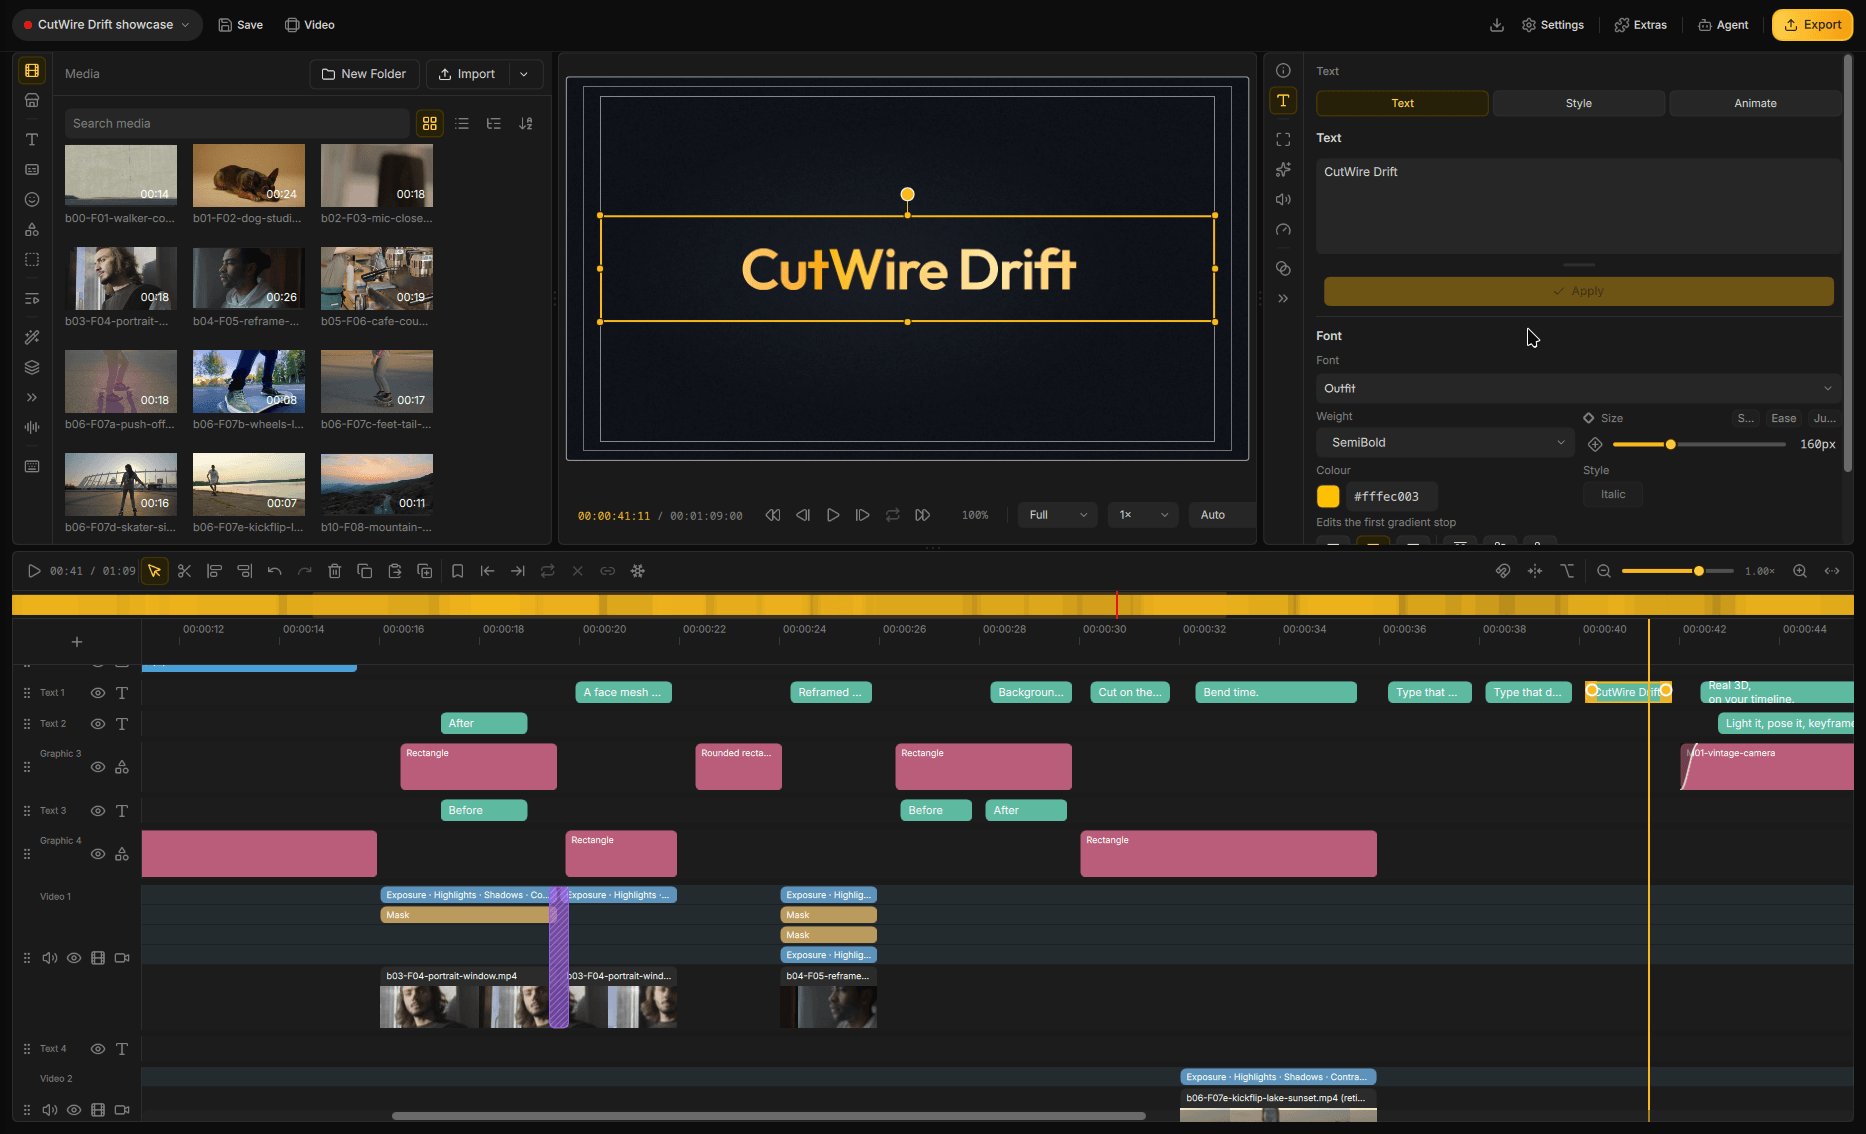
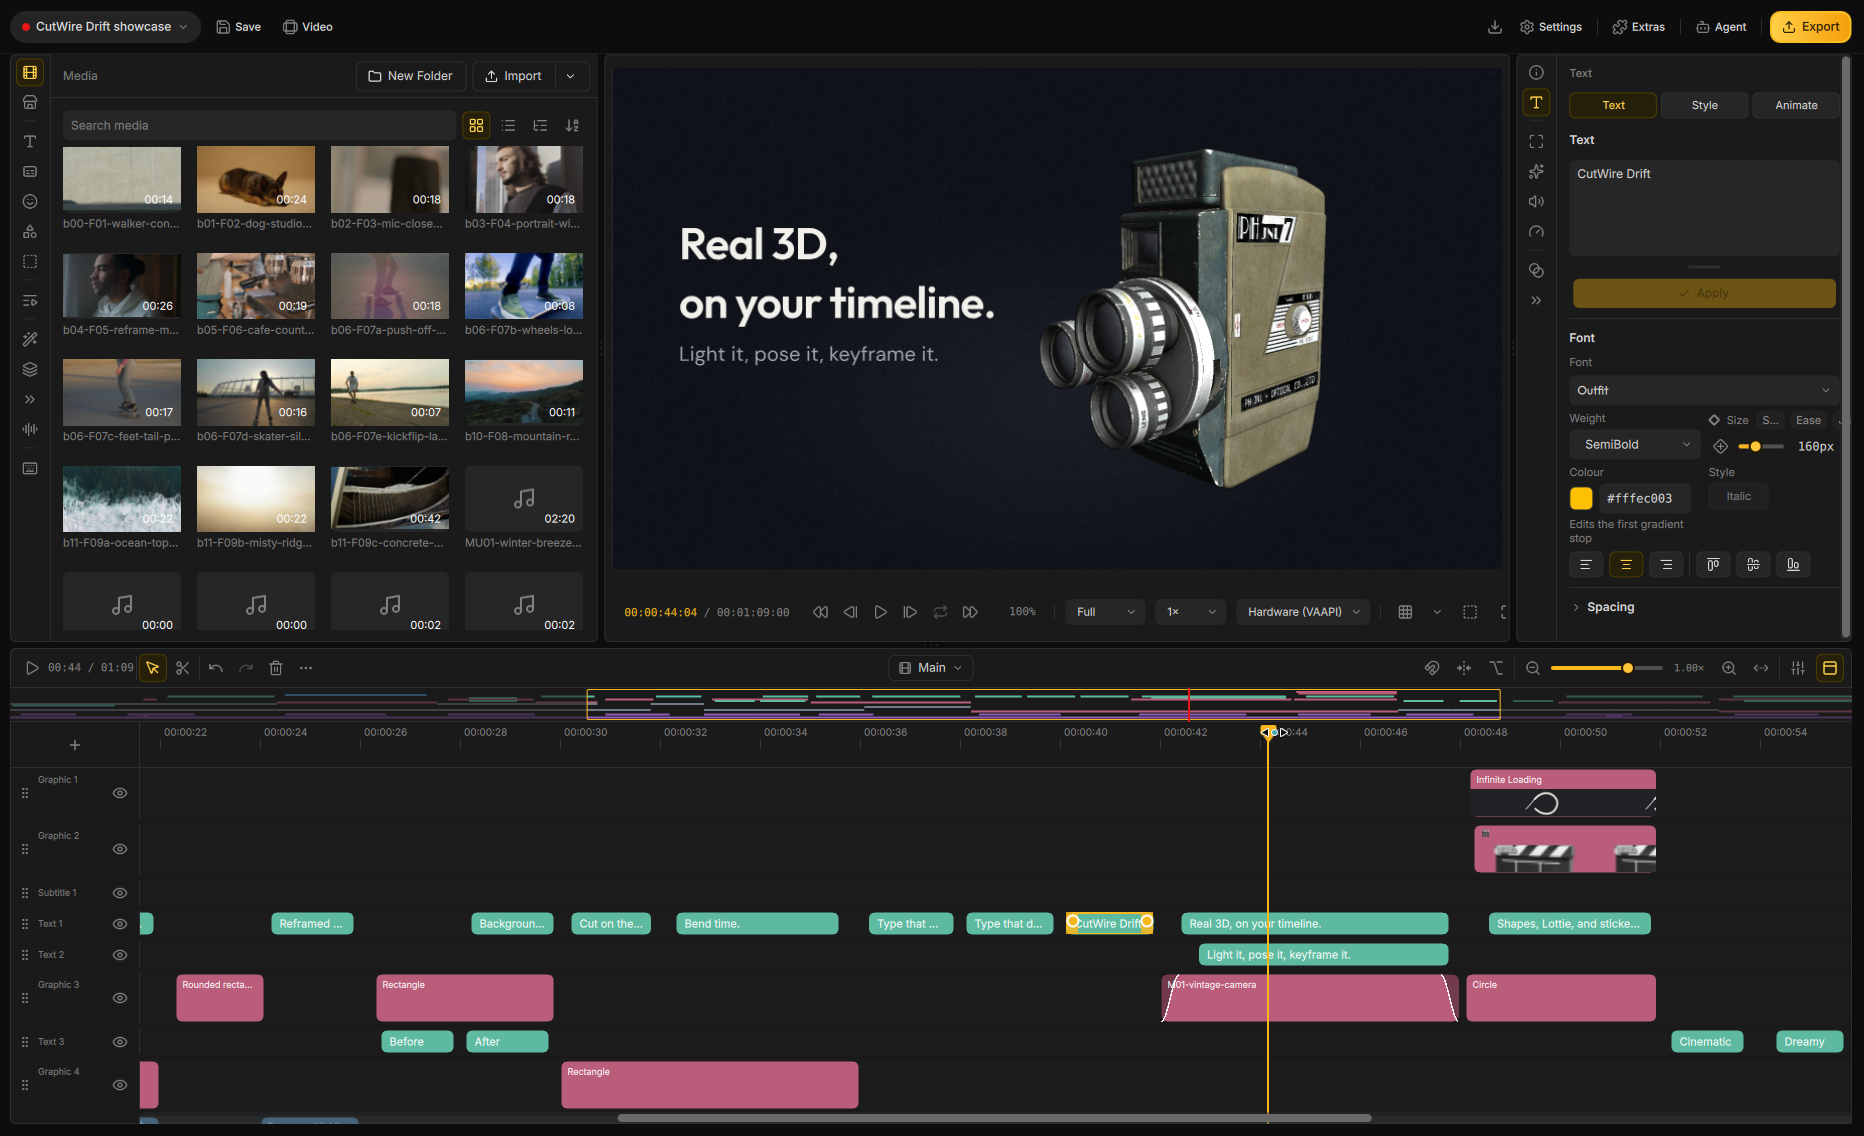
chore: update README.md

diff --git a/README.md b/README.md
@@ -75,141 +75,74 @@ On a phone, grab `Drift-*-arm64-v8a.apk` from the latest release and install it 
 
 See [all releases](https://github.com/CutWire-Studios/Drift/releases) for previous versions and full changelogs.
 
-## Screenshots
+## Screenshot
 
 <p align="center">
-  <img src="docs/screenshots/main-window.png" alt="The Drift editor: media bin on the left, video preview in the centre, clip inspector on the right, timeline below" width="900">
+  <img src="docs/screenshots/main-window.png" alt="The Drift editor: media bin on the left, 3D camera in the preview, text inspector on the right, multi-track timeline below" width="900">
 </p>
 
-<p align="center"><em>Everything in one window — media, preview, inspector, and timeline</em></p>
+## Features
 
-<p align="center">
-  <img src="docs/screenshots/timeline.png" alt="Timeline with four stacked tracks: two image overlays, a title, and a video track showing filmstrip thumbnails" width="900">
-</p>
+**An agent can edit the open project.** Import, cut, grade, and export in the project you have open.
+The same editor can run with no window.
 
-<p align="center"><em>A real multi-track timeline, with overlays, titles, and filmstrip thumbnails</em></p>
+**3D on the timeline.** Tilt clips in space, light them, and park a title behind the subject. Drop
+in a 3D model and it plays in the same cut.
 
-<table>
-  <tr>
-    <td width="50%" align="center">
-      <img src="docs/screenshots/effects-panel.png" alt="Effects browser showing live thumbnail previews of glitch and distortion presets" width="380"><br>
-      <strong>Effects that sell the look</strong><br>
-      Every preset is previewed on a real frame
-    </td>
-    <td width="50%" align="center">
-      <img src="docs/screenshots/transitions-panel.png" alt="Transitions browser with animated previews of crossfade, wipe, and push presets" width="380"><br>
-      <strong>Transitions that feel expensive</strong><br>
-      Drop one where two clips overlap
-    </td>
-  </tr>
-  <tr>
-    <td width="50%" align="center">
-      <img src="docs/screenshots/stickers-panel.png" alt="Sticker browser with emoji grouped into categories" width="380"><br>
-      <strong>Stickers and emoji on demand</strong><br>
-      Search, drag, and drop them onto the canvas
-    </td>
-    <td width="50%" align="center">
-      <img src="docs/screenshots/text-styles.png" alt="Text style presets including neon, karaoke pop, word background, and handwritten" width="380"><br>
-      <strong>Titles that actually get watched</strong><br>
-      Neon, karaoke, highlights, and punchy word styles
-    </td>
-  </tr>
-  <tr>
-    <td width="50%" align="center">
-      <img src="docs/screenshots/templates-panel.png" alt="Template browser showing multi-effect looks such as Beat Drop and Glitch Cut" width="380"><br>
-      <strong>Look templates in one click</strong><br>
-      Music-synced stacks like Beat Drop and Glitch Cut
-    </td>
-    <td width="50%" align="center">
-      <img src="docs/screenshots/audio-effects.png" alt="Audio effect browser with EQ, compressor, limiter, noise gate, de-esser, and voice leveler" width="380"><br>
-      <strong>Audio that sounds intentional</strong><br>
-      EQ, compressor, gate, de-esser, and voice tools
-    </td>
-  </tr>
-  <tr>
-    <td width="50%" align="center">
-      <img src="docs/screenshots/speed-fade.png" alt="Speed and fade inspector with speed presets, reverse, and fade in/out sliders" width="380"><br>
-      <strong>Speed, reverse, and fades</strong><br>
-      Slow-mo, ramps, reverse, and clean in/out
-    </td>
-    <td width="50%" align="center">
-      <img src="docs/screenshots/subtitle-editor.png" alt="Subtitle editor listing timed caption lines, with the line at the playhead highlighted" width="380"><br>
-      <strong>Captions from the speech itself</strong><br>
-      Generate them, then edit every line
-    </td>
-  </tr>
-  <tr>
-    <td width="50%" align="center">
-      <img src="docs/screenshots/subject-cutout.png" alt="Subject cutout dialog with a click marker on the person and the isolated subject highlighted" width="380"><br>
-      <strong>Click the subject. Keep only that.</strong><br>
-      Isolate a person or object onto its own clip
-    </td>
-    <td width="50%" align="center">
-      <img src="docs/screenshots/export-dialog.png" alt="Export dialog with downscale presets and advanced encoder settings" width="420"><br>
-      <strong>Export that matches the preview</strong><br>
-      Simple presets up front, extra control when you want it
-    </td>
-  </tr>
-</table>
+**Lottie animations.** Motion graphics and vector art stay sharp at any size. Recolour or reword
+them in place.
 
-## Features that actually ship in the edit
+**Advanced keyframing.** Animate position, scale, rotation, opacity, and effect parameters over
+time. Draw the curve yourself.
 
-**A timeline that behaves like a real editor.** Trim, split, snap, ripple, mute or hide tracks, and
-undo anything. Stack overlays, titles, and B-roll instead of fighting a one-track toy.
+**150+ transitions and 40+ effects.** Every look previews on your footage. One click can drop a
+whole stack — Beat Drop, Glitch Cut, Neon Cutout. Trails of earlier frames, and grades that stick
+to one clip.
 
-**Looks in seconds, not hours.** GPU effects, stylish transitions, and reusable look templates — so
-a clip can go from raw footage to a finished vibe without opening another app.
+**On this machine.** Click a subject and lift it off the shot. Add depth of field and lights that
+belong to the clip. Automatic captions, video upscale, and live face retouch — all on your
+computer.
 
-**Text, stickers, emoji, and shapes on the canvas.** Neon titles, karaoke-style captions, reaction
-stickers, and callouts stay in the same editor as the cut.
+**Edit the words.** Speech becomes text on the clip. Cut phrases, drop fillers, strip silence, pick
+the best takes, label speakers, and build captions from those times.
 
-**Auto captions you can actually fix.** Speech becomes timed subtitle lines. Edit the wording, tweak
-the timing, and export with captions that match how people watch on mute.
+**Titles with a real look.** Thirty-three packs — karaoke, Hormozi-style, neon, chrome, holographic,
+handwritten. Copy one style onto every subtitle on the track.
 
-**Cutouts, masks, and green screen.** Click a subject and lift it onto its own clip. Mask parts of a
-shot, or key out a green screen when you need a cleaner composite.
+**Move a whole stack at once.** One layer can drag, scale, rotate, tilt, and fade everything under
+it. Nest layers, or open a composite when the stack needs its own timeline.
 
-**Motion that hits the beat.** Speed ramps, reverse, fades, and edits that snap to the music — the
-kind of pacing that makes a clip feel designed, not dumped.
+**Cut to the music.** The timeline snaps to the beat. Clips split and land on the bar. Music ducks
+under speech and comes back to its own level. Reframe a landscape take into a vertical video that
+follows the face.
 
-**Audio tools that clean up the mix.** Volume, fades, EQ, compression, noise cleanup, and voice
-effects, so narration and music sit together instead of fighting.
+**A timeline that behaves.** Multi-track filmstrips, ripple, snap, masks, freeze frame, bookmarks,
+a mixer. Split a clip and the grade stays. A crash leaves the last save intact.
 
-**Multicam when one camera is not enough.** Watch every angle at once, punch between cameras, and
-save the take as a clean cut — without rebuilding the timeline by hand.
+**Audio that sounds finished.** Clean up speech, meter loudness, EQ and compress, keep pitch when
+you change speed, record a voiceover.
 
-**Project bundles for sharing and backup.** Package a project with its media so the whole edit moves
-with you, instead of breaking the moment a file path changes.
+**Find shots. Switch cameras.** Search footage for what’s on screen. Watch every angle at once and
+punch the cut.
 
-**Export that looks like the preview.** MP4 with quality presets, GIF loops, and ranged export from
-an In/Out work area. What you signed off on is what you get.
+**Stabilise, export, take the project with you.** Smooth shaky clips, upscale, play heavy files
+smoothly. MP4, GIF, audio-only, or just a range. Pack the media with the edit so paths stay whole.
 
-## Agent access — let an AI edit with you
+**Android is the same editor.** Timeline, effects, and export on the phone. Share straight from the
+app.
 
-Drift has a built-in **MCP server** for local AI tools. Turn on Agent access and Cursor, Claude Code,
-or another compatible agent can work in the open project: import media, place and trim clips, change
-effects, capture a still of the composition, and export.
-
-This is a real editor hook, not a chatbot bolted onto a webpage. The agent sees the timeline and can
-make edits you can undo.
-
-Agent access stays **off until you enable it**, and it only listens on your own computer. Full setup
-and safety notes live in the [MCP guide](docs/MCP.md).
-
-## Addons, without bloating the install
-
-Fonts, stickers, extra effects, and speech models download inside Drift when you need them. Keep the
-app light, then grab only the packs that match the video you are making.
-
-Open the Addon Manager from the header, or follow the install prompt when a feature needs a pack.
+**Stock, voices, and a small install.** Search stock into the bin. Generate voiceover and sound
+effects. Fonts, stickers, and extra models download when you use them. UI in Arabic, Spanish (Spain
+and Colombia), French (Canada), Italian, Japanese, Portuguese (Brazil and Portugal), Russian,
+Sinhala, Tagalog, Vietnamese, and Simplified Chinese.
 
 ## Why people pick Drift
 
 Most “free” editors want an account, a watermark, or a subscription the moment the video starts
 looking good. Drift is the opposite: **yours, on your computer, GPLv3, no login wall.**
 
-It is fast enough for a 30-second social cut and deep enough for a real project — captions, effects,
-audio, cutouts, multicam, and an AI-assisted timeline if you want one.
+It is fast enough for a 30-second social cut and deep enough for a real project — an agent on the
+timeline, 3D and Lottie, captions, effects, audio, cutouts, and multicam.
 
 ## Help us translate Drift
 
@@ -222,7 +155,6 @@ Build, packaging, architecture, and agent protocol live in `docs/`:
 - [Building, testing, packaging, and architecture](docs/BUILDING.md)
 - [GPU effects](docs/gpu-effects.md)
 - [GPU transitions](docs/gpu-transitions.md)
-- [Time Echo architecture](docs/time-echo-architecture.md)
 - [Agent access / MCP](docs/MCP.md)
 
 ## Help and feedback
